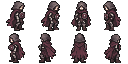
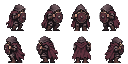
feat(ui): clarify defense poses

diff --git a/src/game/render/PlayerView.js b/src/game/render/PlayerView.js
@@ -5,6 +5,7 @@ import { ATTACK_STARTUP,ATTACK_ACTIVE,ATTACK_RECOVERY } from '../sim/constants.j
 import { playerAttackRangePoints } from './playerAttackRange.js';
 import { attackIndicatorState } from './attackIndicator.js';
 import { attackSwordOffset } from './attackMotion.js';
+import { parryBladeAngle, drawParryGlint } from './defenseEffects.js';
 export class PlayerView {
   constructor(scene){
     this.outline=scene.add.sprite(0,0,'hero-directions',0).setOrigin(.5,1).setDepth(4.5).setTint(0xffe0ab).setTintMode(Phaser.TintModes.FILL).setAlpha(.65).setScale(1.15);
@@ -12,6 +13,7 @@ export class PlayerView {
     this.sword=scene.add.image(0,0,'sword').setOrigin(.16,.5).setDepth(6);
     this.slash=scene.add.sprite(0,0,'effects',0).setOrigin(.5,.5).setDepth(4).setScale(.8);
     this.attackRange=scene.add.graphics().setDepth(5.5);
+    this.defenseEffect=scene.add.graphics().setDepth(6.25);
     this.attackIndicator=scene.add.graphics().setDepth(7);
     this.resetAttackIndicator();
     this.clipKey='';this.clipStart=0;
@@ -26,9 +28,17 @@ export class PlayerView {
     const x=Math.round(player.x+player.w/2),y=Math.round(player.y+player.h),aim=player.mode==='dive'?{x:0,y:1}:player.aim;
     this.outline.setPosition(x,y).setFlipX(clip.texture==='hero-actions'&&player.horizontalFacing<0);
     this.body.setPosition(x,y).setFlipX(clip.texture==='hero-actions'&&player.horizontalFacing<0).setAlpha(player.invulnerableTicks&&player.invulnerableTicks%4<2?.55:1);
-    const dead=player.mode==='dead',aimAngle=Math.atan2(aim.y,aim.x),swordOffset=player.mode==='attack'?attackSwordOffset(player.attackTick):0,parrying=player.defenseMode==='parry',parryFacing=player.aim?.x===0?player.horizontalFacing:Math.sign(player.aim?.x||player.horizontalFacing),swordAngle=parrying?(parryFacing<0?Math.PI*5/4:-Math.PI/4):aimAngle+swordOffset;
-    const swordX=parrying?x+parryFacing*2:x,swordY=Math.round(player.y+player.h/2-(parrying?3:0));
-    this.sword.setVisible(!dead).setPosition(swordX,swordY).setRotation(swordAngle);
+    const dead=player.mode==='dead';
+    const shielding=!dead&&player.defenseMode==='shield',parrying=!dead&&player.defenseMode==='parry';
+    const aimAngle=Math.atan2(aim.y,aim.x);
+    const swordOffset=player.mode==='attack'?attackSwordOffset(player.attackTick):0;
+    const parryFacing=clip.key==='hero.parry.left'?-1:1;
+    const swordAngle=parrying?parryBladeAngle(parryFacing,player.defenseTicksRemaining):aimAngle+swordOffset;
+    const chestY=Math.round(player.y+player.h/2);
+    const swordX=parrying?x+parryFacing*2:x,swordY=parrying?chestY+6:chestY;
+    this.sword.setVisible(!dead&&!shielding).setPosition(swordX,swordY).setRotation(swordAngle);
+    this.defenseEffect.clear();
+    if(parrying)drawParryGlint(this.defenseEffect,swordX,swordY,swordAngle,player.defenseTicksRemaining);
     const active=!scene.paused&&!scene.run.outcome&&!dead&&!['dying','dead'].includes(scene.run.boss.state);
     const indicator=attackIndicatorState(player,tick,active,this.indicatorMemory);this.indicatorMemory=indicator.memory;
     this.attackIndicator.clear();if(indicator.visible){const gx=Math.round(player.x+player.w/2-8),gy=Math.round(player.y-8);
@@ -51,5 +61,5 @@ export class PlayerView {
       g.lineStyle(1,0xe8ad7e,.75*glow);arc(.75,.08,.48);arc(.70,.57,.93);
     }
   }
-  destroy(){this.outline.destroy();this.body.destroy();this.sword.destroy();this.slash.destroy();this.attackRange.destroy();this.attackIndicator.destroy();}
+  destroy(){this.outline.destroy();this.body.destroy();this.sword.destroy();this.slash.destroy();this.attackRange.destroy();this.defenseEffect.destroy();this.attackIndicator.destroy();}
 }

diff --git a/src/game/render/defenseEffects.js b/src/game/render/defenseEffects.js
@@ -1,0 +1,26 @@
+import { PARRY_WINDOW_TICKS } from '../sim/constants.js';
+
+export function parryBladeAngle(facing, remainingTicks) {
+  const age = PARRY_WINDOW_TICKS - remainingTicks;
+  const raise = Math.min(1, (age + 1) / 4);
+  const tilt = (24 + 38 * raise) * Math.PI / 180;
+  return facing < 0 ? Math.PI + tilt : -tilt;
+}
+
+export function drawParryGlint(graphics, x, y, angle, remainingTicks) {
+  const dx = Math.cos(angle);
+  const dy = Math.sin(angle);
+  const edge = (start, end) => graphics.lineBetween(
+    x + dx * start, y + dy * start,
+    x + dx * end, y + dy * end
+  );
+
+  graphics.lineStyle(1, 0xd4e0db, 0.65);
+  edge(6, 24);
+
+  const age = PARRY_WINDOW_TICKS - remainingTicks;
+  if (age >= 7) return;
+  const glint = 8 + age * 2.5;
+  graphics.lineStyle(2, 0xffedcf, 0.96 - age * 0.1);
+  edge(glint, Math.min(25, glint + 4));
+}
